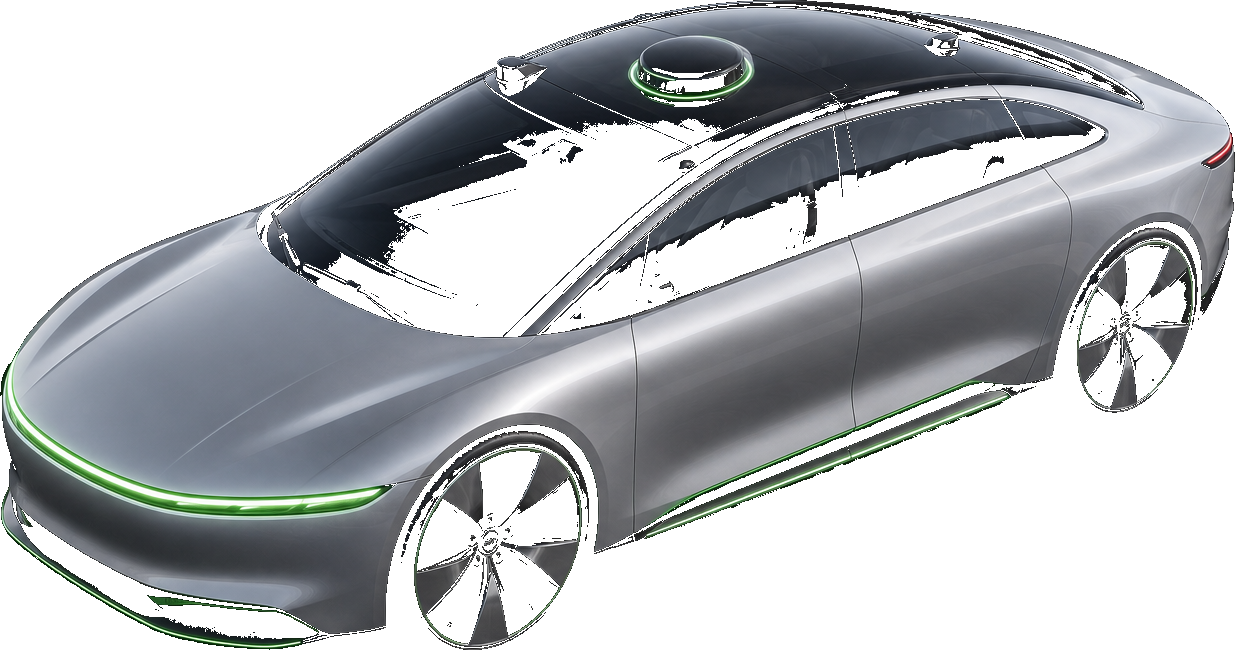
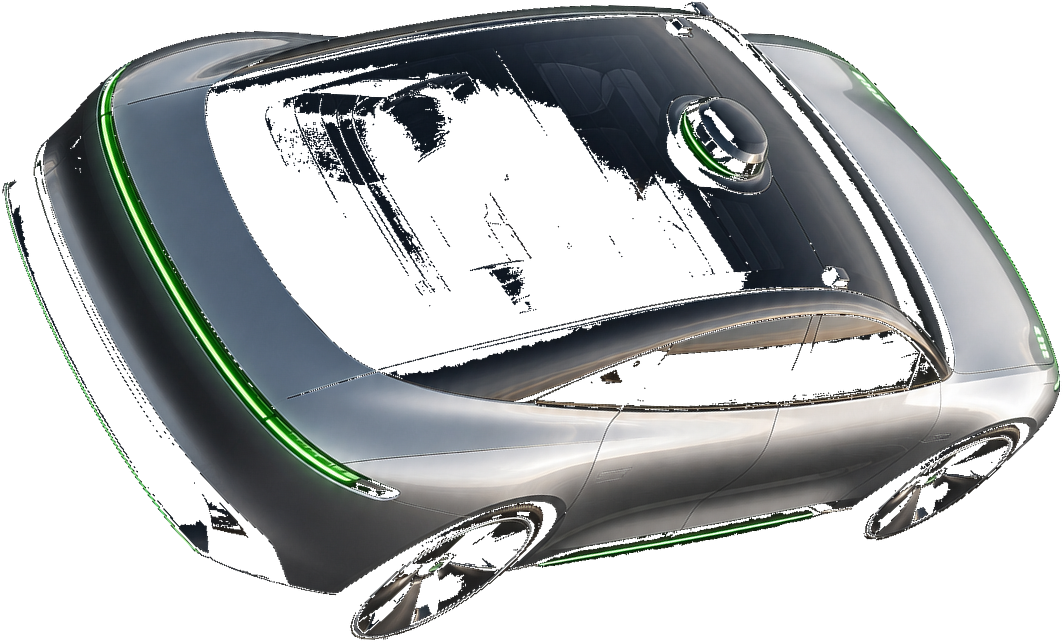
Site: align robotaxi heading with the perspective grid
- Pre-rotate the robotaxi PNG ~47° clockwise so its heading tracks a
  perspective line converging on the vanishing point at (800, 440) in
  the bg-scene SVG (matching the horizontal position where it sits).
- Anchor it in the bottom-left corner (slightly off-screen) at a smaller
  28vh so it no longer covers the awards timeline text.

diff --git a/assets/css/style.css b/assets/css/style.css
@@ -97,8 +97,12 @@ body::after {
      ambient green sensor-glow gradients. Positions are in viewport
      percentages so the composition holds up across screen sizes. */
   background:
-    url("../img/humanoid.png") 86% 60% / auto 30vh no-repeat,
-    url("../img/robotaxi.png") 10% 94% / auto 20vh no-repeat,
+    url("../img/humanoid.png") 88% 62% / auto 30vh no-repeat,
+    /* Robotaxi is pre-rotated ~47° CW in the PNG so its heading tracks the
+       perspective grid that converges to (50%, 44%). Anchored near the base
+       of that grid line, tucked toward the corner so it stays out of the
+       awards timeline text. */
+    url("../img/robotaxi.png") -2% 106% / auto 28vh no-repeat,
     radial-gradient(60rem 44rem at 8% -6%,
       color-mix(in oklab, var(--accent) 24%, transparent) 0%,
       transparent 55%),
@@ -113,8 +117,8 @@ body::after {
 }
 [data-theme="light"] body::after {
   background:
-    url("../img/humanoid.png") 86% 60% / auto 30vh no-repeat,
-    url("../img/robotaxi.png") 10% 94% / auto 20vh no-repeat,
+    url("../img/humanoid.png") 88% 62% / auto 30vh no-repeat,
+    url("../img/robotaxi.png") -2% 106% / auto 28vh no-repeat,
     radial-gradient(60rem 44rem at 8% -6%,
       color-mix(in oklab, var(--accent) 30%, transparent) 0%,
       transparent 55%),
